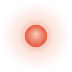
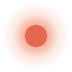
feat(tray): recording/history/settings/mic menu items; flat LED core
The tray context menu now mirrors the utility-app pattern: Start/Stop
Recording (label follows live recording state), History…, Settings…,
and a microphone item showing the top-priority configured mic (opens
dictation settings). The menu rebuilds on recording-state and
recording-settings changes.

The LED dot core is now a flat single yellow-green disc with a crisp
anti-aliased edge; the bloom halo starts strictly outside the core so
nothing looks blurry.

Claude-Session: https://claude.ai/code/session_01QfgoNKtLWGnzHu6gaJMUZ3

Changed region(s): [[0.25, 0.25, 0.75, 0.75], [0.3889, 0.3889, 0.6111, 0.5833]]

diff --git a/apps/desktop/src/main/managers/tray-manager.ts b/apps/desktop/src/main/managers/tray-manager.ts
@@ -2,6 +2,7 @@ import { app, Tray, Menu, nativeImage } from "electron";
 import * as path from "path";
 import { logger } from "../logger";
 import type { WindowManager } from "../core/window-manager";
+import type { ServiceManager } from "./service-manager";
 import { isMacOS, isWindows } from "../../utils/platform";
 import { initMainI18n } from "../../i18n/main";
 
@@ -9,6 +10,9 @@ export class TrayManager {
   private static instance: TrayManager | null = null;
   private tray: Tray | null = null;
   private windowManager: WindowManager | null = null;
+  private serviceManager: ServiceManager | null = null;
+  private t: ((key: string, options?: Record<string, unknown>) => string) | null =
+    null;
 
   private constructor() {}
 
@@ -22,41 +26,108 @@ export class TrayManager {
   async initialize(
     windowManager: WindowManager,
     locale?: string | null,
+    serviceManager?: ServiceManager,
   ): Promise<void> {
     this.windowManager = windowManager;
+    this.serviceManager = serviceManager ?? null;
     const i18n = await initMainI18n(locale);
-    const t = i18n.t.bind(i18n);
+    this.t = i18n.t.bind(i18n);
 
-    // Create tray icon: a small status dot (gray = idle, green = Caps Lock
-    // sleep guard active, red = sleep guard error). Colored deliberately, so
-    // no template image.
+    // Create tray icon: a small LED-style status dot (gray = idle, green =
+    // Caps Lock sleep guard active, red = sleep guard error). Colored
+    // deliberately, so no template image.
     const iconPath = this.getIconPath("off");
     logger.main.info(`Loading tray icon from: ${iconPath}`);
 
     const icon = nativeImage.createFromPath(iconPath);
     this.tray = new Tray(icon);
+    this.tray.setToolTip(this.t("tray.tooltip"));
 
-    // Set tooltip
-    this.tray.setToolTip(t("tray.tooltip"));
+    await this.rebuildMenu();
 
-    // Create context menu
+    // Keep the dynamic labels fresh: the toggle item follows the recording
+    // state, the microphone item follows the configured priority chain.
+    if (this.serviceManager) {
+      try {
+        const recordingManager =
+          this.serviceManager.getService("recordingManager");
+        recordingManager?.on("state-changed", () => {
+          void this.rebuildMenu();
+        });
+        const settingsService =
+          this.serviceManager.getService("settingsService");
+        settingsService?.on("recording-settings-changed", () => {
+          void this.rebuildMenu();
+        });
+      } catch (error) {
+        logger.main.warn("Tray dynamic menu wiring skipped", { error });
+      }
+    }
+
+    logger.main.info("Tray initialized successfully");
+  }
+
+  private async rebuildMenu(): Promise<void> {
+    if (!this.tray || this.tray.isDestroyed() || !this.t) return;
+    const t = this.t;
+
+    const recordingManager = (() => {
+      try {
+        return this.serviceManager?.getService("recordingManager") ?? null;
+      } catch {
+        return null;
+      }
+    })();
+    const recordingState = recordingManager?.getState() ?? "idle";
+    const isRecordingActive =
+      recordingState === "recording" || recordingState === "starting";
+
+    const micName = await this.getPreferredMicrophoneName();
+
+    const openMainAt = async (route: string) => {
+      if (!this.windowManager) return;
+      const onboardingWindow = this.windowManager.getOnboardingWindow();
+      if (onboardingWindow && !onboardingWindow.isDestroyed()) {
+        onboardingWindow.show();
+        onboardingWindow.focus();
+        return;
+      }
+      await this.windowManager.navigateMainWindow(route);
+    };
+
     const contextMenu = Menu.buildFromTemplate([
       {
-        label: t("tray.openConsole"),
+        label: isRecordingActive
+          ? t("tray.stopRecording")
+          : t("tray.startRecording"),
         click: async () => {
-          logger.main.info("Open console requested from tray");
-          if (this.windowManager) {
-            // During onboarding, focus the wizard instead of opening the main
-            // window beside it (same guard as activate / second-instance).
-            const onboardingWindow = this.windowManager.getOnboardingWindow();
-            if (onboardingWindow && !onboardingWindow.isDestroyed()) {
-              onboardingWindow.show();
-              onboardingWindow.focus();
-              return;
-            }
-            await this.windowManager.createOrShowMainWindow();
+          if (!recordingManager) return;
+          const state = recordingManager.getState();
+          if (state === "idle") {
+            await recordingManager.signalStart();
+          } else if (state === "recording" || state === "starting") {
+            await recordingManager.signalStop();
           }
         },
+      },
+      { type: "separator" as const },
+      {
+        label: t("tray.history"),
+        click: () => void openMainAt("/history"),
+      },
+      {
+        label: t("tray.settings"),
+        click: () => void openMainAt("/settings/preferences"),
+      },
+      { type: "separator" as const },
+      {
+        label: t("tray.microphone", { name: micName }),
+        click: () => void openMainAt("/settings/dictation"),
+      },
+      { type: "separator" as const },
+      {
+        label: t("tray.openConsole"),
+        click: () => void openMainAt("/history"),
       },
       { type: "separator" as const },
       ...(isMacOS()
@@ -83,10 +154,21 @@ export class TrayManager {
       },
     ]);
 
-    // Set the context menu
     this.tray.setContextMenu(contextMenu);
+  }
 
-    logger.main.info("Tray initialized successfully");
+  /** Highest-priority configured microphone, or the system default label. */
+  private async getPreferredMicrophoneName(): Promise<string> {
+    const fallback = this.t ? this.t("tray.systemDefaultMic") : "Default";
+    try {
+      const settingsService = this.serviceManager?.getService("settingsService");
+      if (!settingsService) return fallback;
+      const recording = await settingsService.getRecordingSettings();
+      const name = recording?.microphonePriority?.[0]?.name;
+      return name && name.trim() !== "" ? name : fallback;
+    } catch {
+      return fallback;
+    }
   }
 
   /**

diff --git a/apps/desktop/src/main/core/app-manager.ts b/apps/desktop/src/main/core/app-manager.ts
@@ -141,7 +141,11 @@ export class AppManager {
     const locale = await this.setupMenu();
 
     // Initialize tray
-    await this.trayManager.initialize(this.windowManager, locale);
+    await this.trayManager.initialize(
+      this.windowManager,
+      locale,
+      this.serviceManager,
+    );
 
     // Tray dot mirrors the Caps Lock sleep-guard state (green while the
     // guard keeps the Mac awake, red on pmset errors, gray otherwise).
